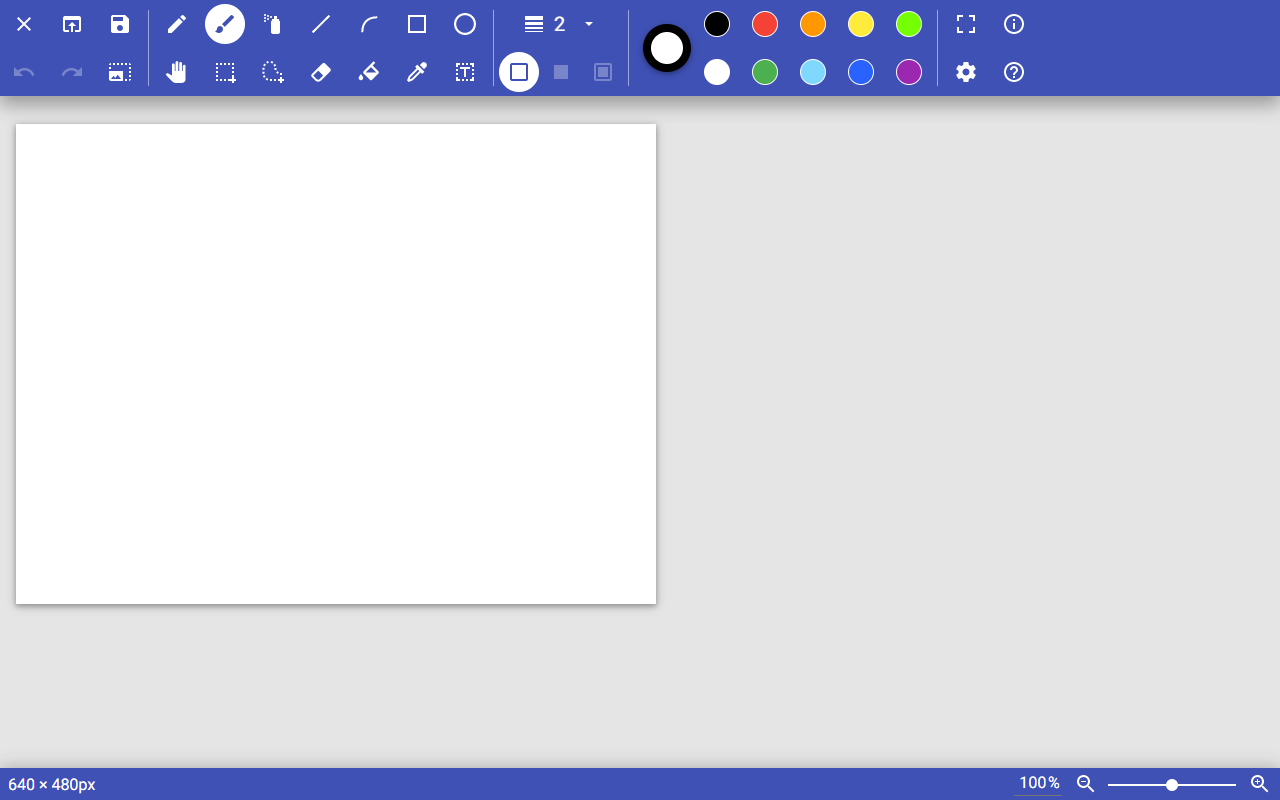
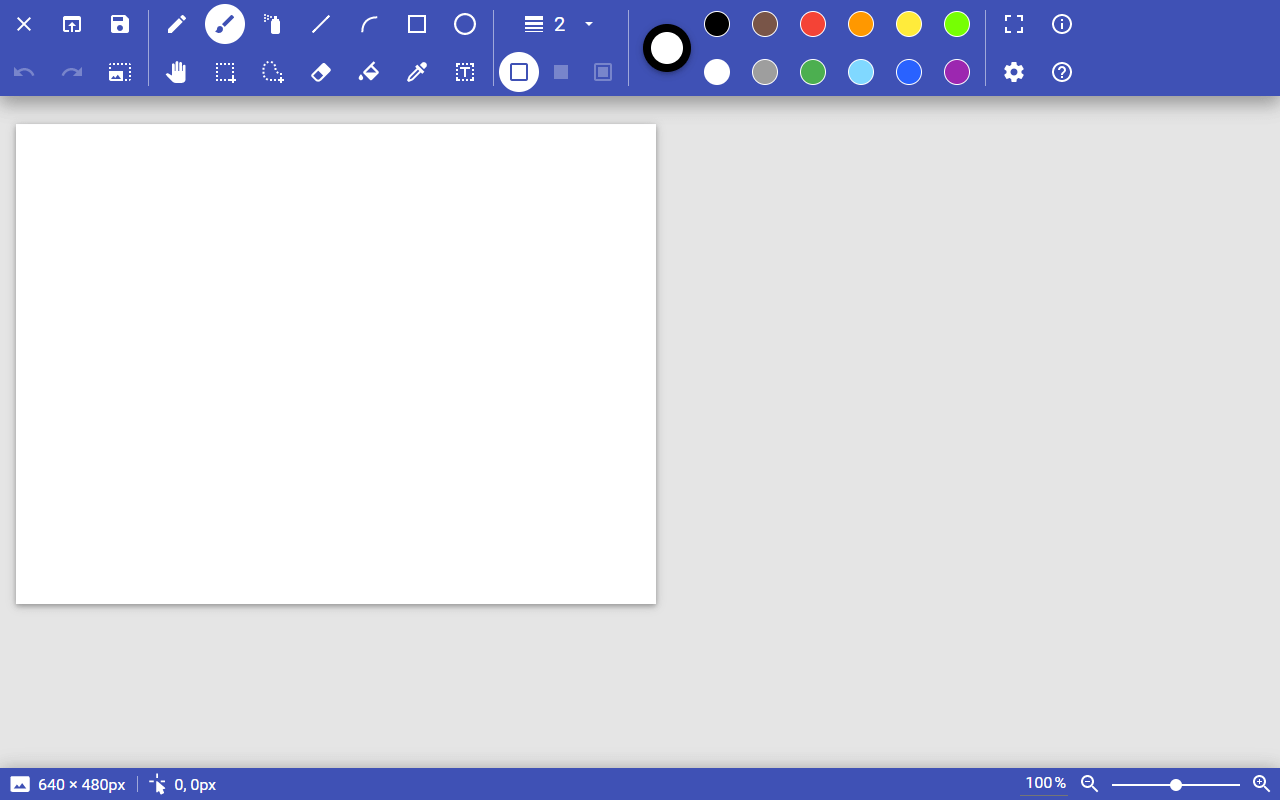
Update screenshot on About page to show the v3.2 UI

diff --git a/app/service_worker.js b/app/service_worker.js
@@ -1,6 +1,6 @@
 'use strict';
 
-// 2020-11-30, v1
+// 2020-12-01, v1
 var CACHE_START_TEXT = 'CACHE MANIFEST',
 	CACHE_END_TEXT = 'NETWORK';
 
